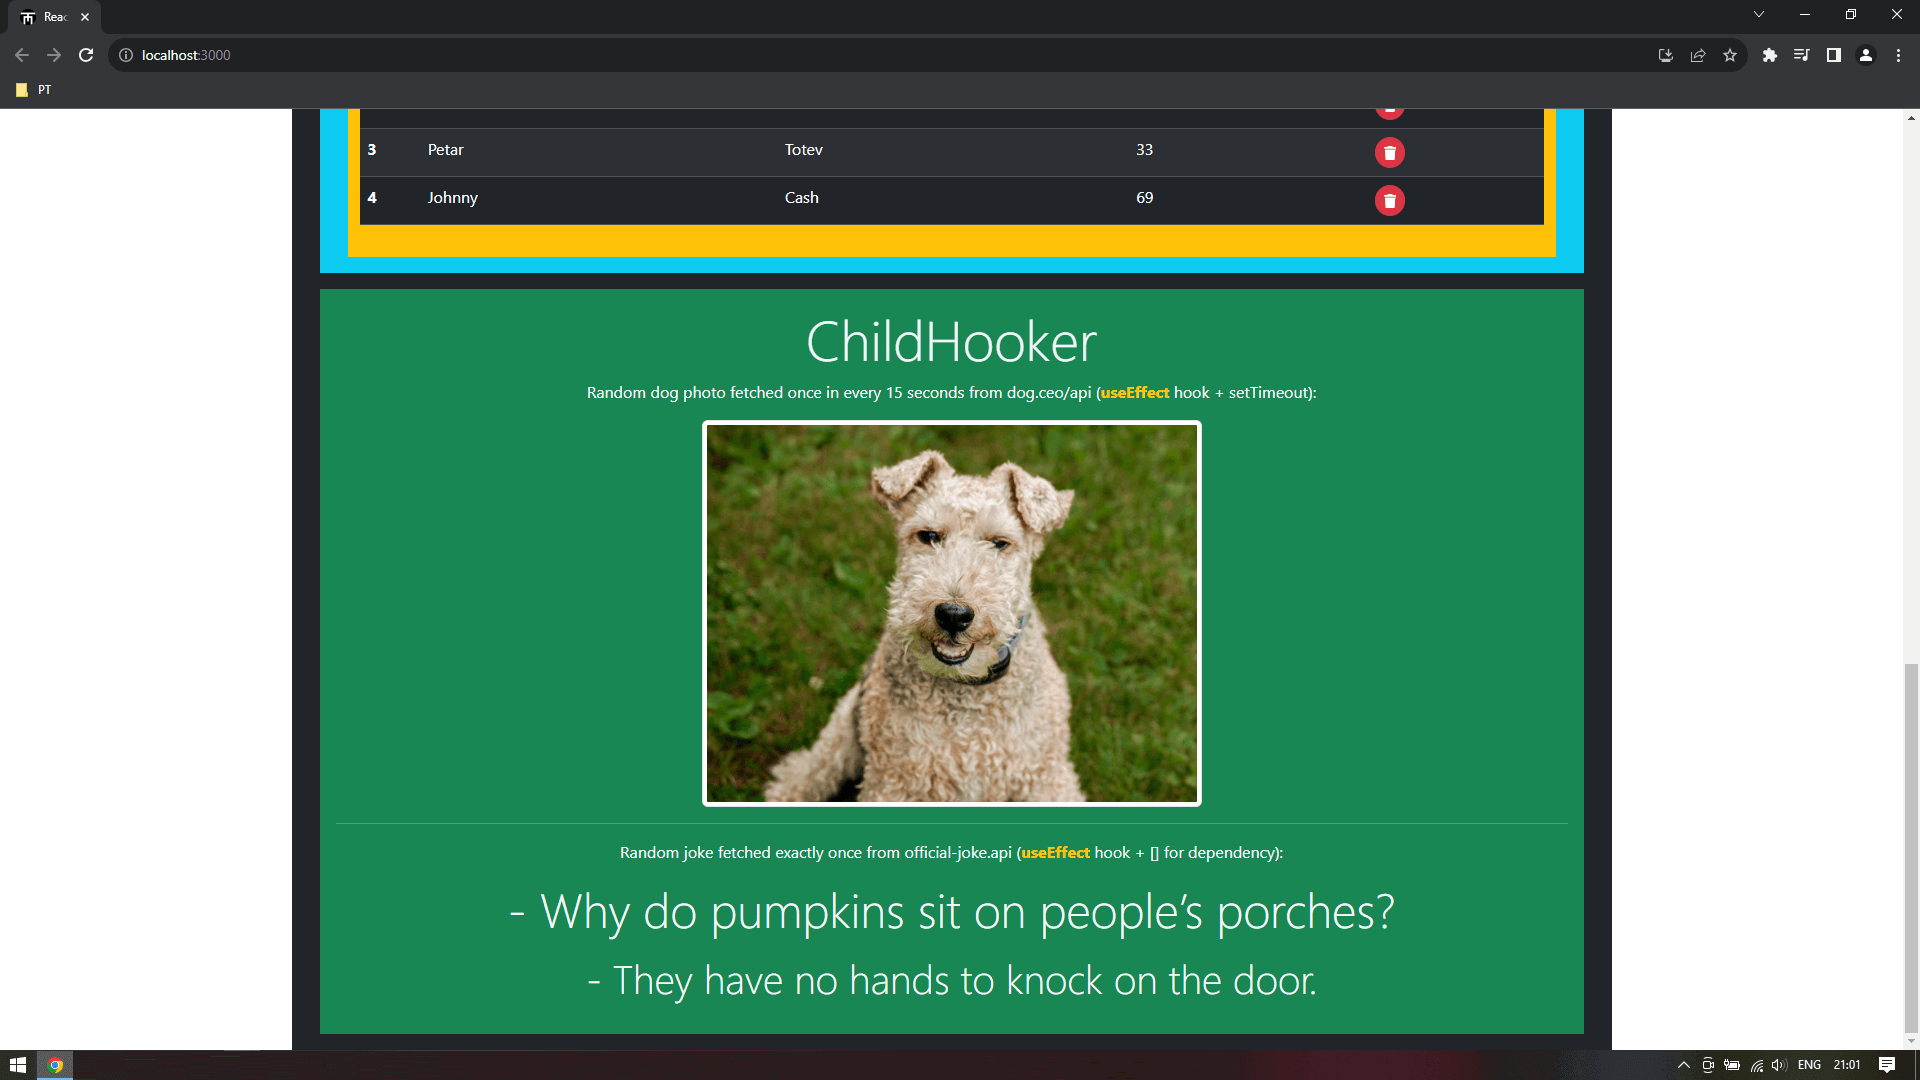
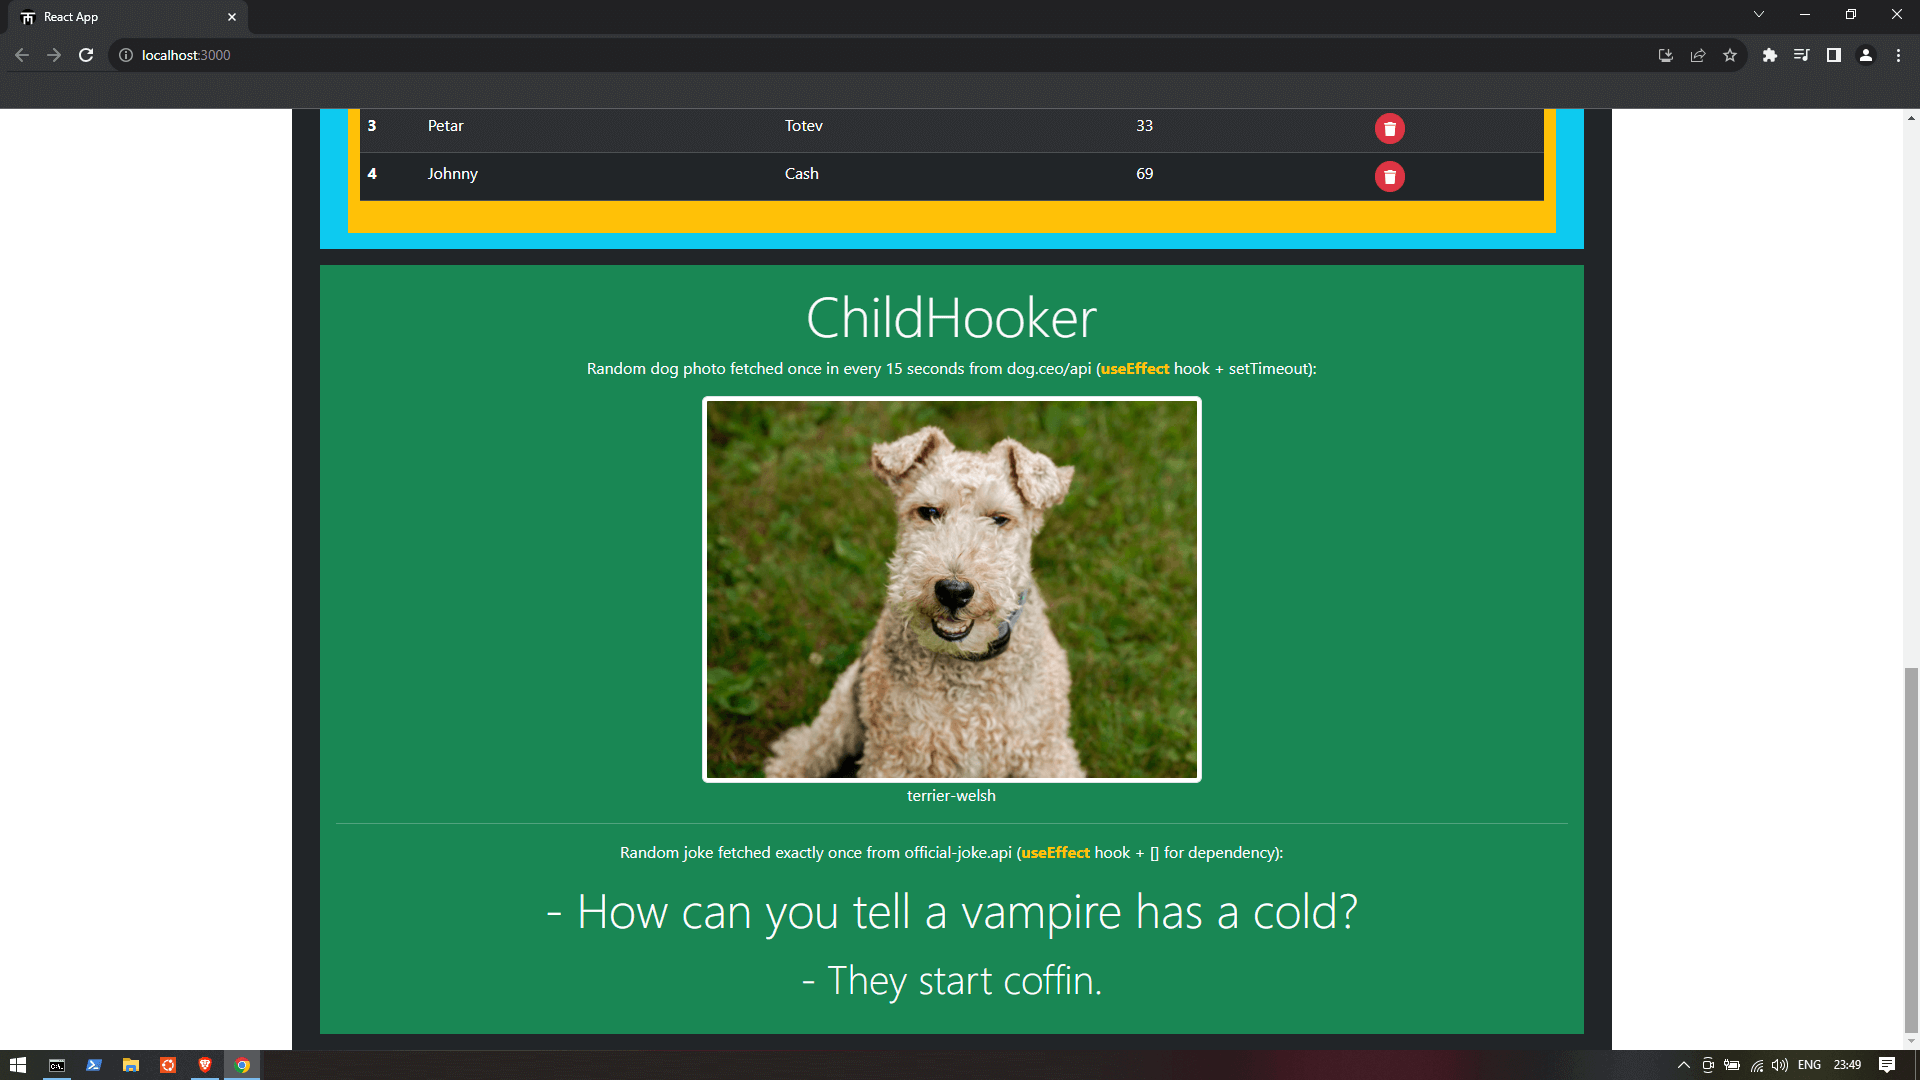
Minor changes. README updated

diff --git a/src/my-family-app/src/components/ChildHooker/ChildHooker.js b/src/my-family-app/src/components/ChildHooker/ChildHooker.js
@@ -18,8 +18,8 @@ function ChildHooker() {
                     throw new Error('useEffect did not manage to fetch data from server!');
                 }})
             .then(data => {
-                console.log(data.message);
-                setDog(new DogApiResponse(data.message, data.status));
+                console.log(data);
+                setDog(new DogApiResponse(data.message, data.status, getBreedFromDogApiResponseMessage(data.message)));
             })
             .catch((err) => {
                 console.log(err);
@@ -32,7 +32,7 @@ function ChildHooker() {
         }, 15000);
 
         return () => clearTimeout(timer);
-    }) // }, []) as a dependency parameter will limit the execution to 1.
+    }) // }, ??) ?? missing dependency parameter will lead to infinite execution.
 
     // This useEffect will fetch a random joke only once due to [] dependency paramter:
     useEffect(() => {
@@ -53,13 +53,22 @@ function ChildHooker() {
             .finally(() => {});
         }, []) // [] as a dependency parameter will limit the execution to 1.
 
+    function getBreedFromDogApiResponseMessage(message) {
+        try {
+            let breed = message.replace('https://images.dog.ceo/breeds/', '');
+            return breed.substring(0, breed.indexOf("/"));
+        } catch {
+            return undefined;
+        }
+    }
+
     return (
         <div className="row bg-success text-light m-3">
             <div className="col-md-12 p-3">
                 <h4 className="display-4 d-flex justify-content-center">ChildHooker</h4>
-                {dog && <div><p className="d-flex justify-content-center">Random dog photo fetched once in every 15 seconds from dog.ceo/api (<b class="text-warning">useEffect&nbsp;</b> hook + setTimeout):</p><div className="d-flex justify-content-center"><img src={dog.message} alt="dog" className="img-max img-thumbnail" /></div></div>}
+                {dog && <div><p className="d-flex justify-content-center">Random dog photo fetched once in every 15 seconds from dog.ceo/api (<b className="text-warning">useEffect&nbsp;</b> hook + setTimeout):</p><div className="d-flex justify-content-center"><img src={dog.message} alt="dog" className="img-max img-thumbnail" /></div>{dog.breed && <p className="d-flex justify-content-center">{dog.breed}</p>}</div>}
                 {dog && joke && <hr/>}
-                {joke && <div><p className="d-flex justify-content-center">Random joke fetched exactly once from official-joke.api (<b class="text-warning">useEffect&nbsp;</b> hook + [] for dependency):</p><p className="display-5 d-flex justify-content-center">- {joke.setup}</p><p className="display-6 d-flex justify-content-center"> - {joke.punchline}</p></div>}
+                {joke && <div><p className="d-flex justify-content-center">Random joke fetched exactly once from official-joke.api (<b className="text-warning">useEffect&nbsp;</b> hook + [] for dependency):</p><p className="display-5 d-flex justify-content-center">- {joke.setup}</p><p className="display-6 d-flex justify-content-center"> - {joke.punchline}</p></div>}
             </div>
         </div>
     )

diff --git a/src/my-family-app/src/components/ChildHooker/DogApiResponse.js b/src/my-family-app/src/components/ChildHooker/DogApiResponse.js
@@ -1,6 +1,7 @@
 export default class JokeApiResponse {
-    constructor(message,status) {
+    constructor(message,status,breed) {
         this.message = message;
         this.status = status;
+        this.breed = breed;
     }
 }

diff --git a/README.md b/README.md
@@ -18,6 +18,9 @@
 - [Install Bootstrap 5 for React](#install-bootstrap-5-for-react)
 - [Use React Bootstrap Components](#use-react-bootstrap-components)
 - [Use Font Awesome](#use-font-awesome)
+- [Notes](#notes)
+  - [The key prop](#the-key-prop)
+  - [Hooks](#hooks)
 - [Links](#links)
   - [React](#react)
   - [JS](#js)
@@ -25,6 +28,7 @@
   - [ESLint](#eslint)
   - [Bootstrap 5 and React-Bootstrap](#bootstrap-5-and-react-bootstrap)
   - [Font Awesome](#font-awesome)
+  - [Others](#others)
 
 ## General Information
 
@@ -44,13 +48,6 @@ Next.js:
 - Routing => Next.js built-in router;
 - Bootstrap => ```_document.js``` file needs to be created, then certain contents from Docs to be copy-pasted;
 - ESLint => ```npm run lint``` command in ```scripts``` block of ```package.json``` is there by default;
-
-### Others
-
-- React.memo(...);
-
-https://legacy.reactjs.org/docs/react-api.html#reactmemo
-
 
 ## Create new React Project
 
@@ -166,6 +163,8 @@ Fix:
 ```
 <ul>{myAnimals.map((x, index) => <li key={index}>{x}</li>)}</ul>
 ```
+
+Check [The key prop](#the-key-prop) in [Notes](#notes) section for more information.
 
 ---
 
@@ -321,21 +320,52 @@ npm install --save @fortawesome/react-fontawesome
 
 Read more about it in Font Awesome docs. Individual Use can be tedious.
 
+### Notes
+
+#### React.memo(...);
+
+https://legacy.reactjs.org/docs/react-api.html#reactmemo
+
+#### The key prop
+
+For the key prop, use object's id >> unique combination of object's properties >> index provided by map function.
+
+#### Hooks
+
+Hooks are functions. They start with the `use-` prefix (useState, useEffect).
+
+First rule of Hooks:
+
+`Only call Hooks at the top level! They should always be called. They should be always be executed in the same order. `
+
+It is forbidden to wrap them in conditional statements etc.
+
+Second rule of Hooks:
+
+`Only call hooks in function components!`
+
+Only custom hooks can call other hooks, if needed.
+
 ## Links
 
 ### React
 - https://react.dev/reference/react-dom/components/input
 - https://babeljs.io/
 - https://stackoverflow.com/questions/62967958/what-is-the-difference-between-next-js-and-create-react-app
+- https://www.w3schools.com/react/react_useeffect.asp
+
 #### Create-React-App
 - https://create-react-app.dev/docs/getting-started
 - https://create-react-app.dev/docs/available-scripts/
+
 #### Next.js
 - https://nextjs.org/docs
+- https://nextjs.org/docs/pages/building-your-application/configuring/src-directory
 
 ### JS
 - https://stackoverflow.com/questions/979256/sorting-an-array-of-objects-by-property-values
 - https://stackoverflow.com/questions/24386354/execute-js-code-after-pressing-the-spacebar
+- https://dev.to/uzodike/settimeout-in-useeffect-api-call-data-fetching-j33
 
 ### Debugging
 - [Configuring VSCODE DEBUGGER for Create React App (CRA) - no more console.log | JavaScript - youtube clip
@@ -352,6 +382,7 @@ Read more about it in Font Awesome docs. Individual Use can be tedious.
 - https://getbootstrap.com/docs/5.1/forms/checks-radios/
 - https://react-bootstrap.netlify.app/docs/components/spinners
 - https://stackoverflow.com/questions/74191314/how-do-i-change-a-switch-size-in-react-bootstrap
+- https://stackoverflow.com/questions/53721711/how-to-set-responsive-images-max-width-bootstrap-4
 
 ### Font Awesome
 - https://fontawesome.com/v5/docs/web/use-with/react
@@ -359,3 +390,7 @@ Read more about it in Font Awesome docs. Individual Use can be tedious.
 ### Others
 - https://legacy.reactjs.org/docs/handling-events.html
 - https://legacy.reactjs.org/docs/forms.html
+- https://apipheny.io/free-api/ - list of free API-s
+  - https://www.boredapi.com/api/activity
+  - https://dog.ceo/api/breeds/image/random
+  - https://official-joke-api.appspot.com/random_joke
